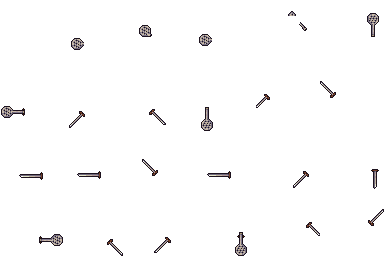
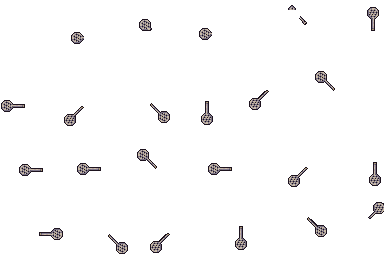
add new pc sprite/ update to racket sprite(ugh)/primitive vs computer play

diff --git a/src/index.js b/src/index.js
@@ -22,10 +22,12 @@ import * as serviceWorker from './serviceWorker';
 
   var game = new Phaser.Game(config);
 
-  var player, racket, cursor, ball, wall, scoreTextPlayer, scoreTextPc, rect, circle, court, divider
+  var player, racket, cursor, ball, wall, scoreTextPlayer, scoreTextPc, rect, circle, court, divider, pc, pcracket, pchit
+  var pcVelocity = 0
   var scorePlayer = 0
   var scorePc = 0
 
+  pchit = false
   let maxVel = 150
   var velocityX = 0
   var velocityY = 0
@@ -39,13 +41,14 @@ import * as serviceWorker from './serviceWorker';
   function preloadGame () {
     //function where images are loaded
     this.load.image('player','assets/player.png')
-    this.load.image('pc','assets/pc.png')
     this.load.image('ball','assets/ball.png')
     this.load.image('wall','assets/wall.png')
     // this.load.image('divider','assets/divider.png')
     this.load.image('court','assets/tempcourt.png')
+    this.load.spritesheet('pc','assets/pc.png', { frameWidth: 64, frameHeight: 64 })
     this.load.spritesheet('dude', 'assets/playersprite.png', { frameWidth: 64, frameHeight: 64 })
     this.load.spritesheet('racket', 'assets/racket.png', { frameWidth: 64, frameHeight: 64 })
+    this.load.spritesheet('pcracket', 'assets/racket.png', { frameWidth: 64, frameHeight: 64 })
   }
 
   function createGame () {
@@ -101,6 +104,30 @@ import * as serviceWorker from './serviceWorker';
       frameRate: 16
     })
 
+    this.anims.create({
+      key: 'pcleft',
+      frames: this.anims.generateFrameNumbers('pc', { start: 117, end: 125 }),
+      frameRate: 10
+    });
+
+    this.anims.create({
+      key: 'pcright',
+      frames: this.anims.generateFrameNumbers('pc', { start: 143, end: 151 }),
+      frameRate: 10,
+    });
+
+    this.anims.create({
+      key: 'pcspacebar',
+      frames: this.anims.generateFrameNumbers('pc', { start: 186, end: 182 }),
+      frameRate: 16
+    });
+
+    this.anims.create({
+      key: 'pcracket',
+      frames: this.anims.generateFrameNumbers('pcracket', { start: 20, end: 16}),
+      frameRate: 16
+    })
+
     // divider = this.physics.add.image(587, 320, 'divider')
     // divider.setImmovable(true)
 
@@ -114,8 +141,17 @@ import * as serviceWorker from './serviceWorker';
     ball.setScale(ballZ)
     ball.setBounce(0)
 
-    wall = this.physics.add.image(600, 20, 'wall')
-    wall.setImmovable(true)
+    // wall = this.physics.add.image(600, 20, 'wall')
+    // wall.setImmovable(true)
+    pc = this.physics.add.sprite(600, 80, 'pc')
+    pc.setSize(64, 35, 0, 15)
+    pc.setCollideWorldBounds(true)
+    pc.setImmovable(true)
+    pc.setVelocityX(pcVelocity)
+    pc.setFrame(27)
+    pcracket = this.physics.add.sprite(335, 485, 'pcracket')
+    pcracket.setSize(80, 74, 0, 0)
+
     player = this.physics.add.sprite(350, 500, 'dude');
     player.setSize(30, 35, 30, 15)
     player.setImmovable(true)
@@ -125,8 +161,9 @@ import * as serviceWorker from './serviceWorker';
     player.setBounce(.5)
 
     this.physics.add.collider(ball, player, hitPlayer, null, this)
-    this.physics.add.collider(ball, racket, hitBall, null, this)
-    this.physics.add.collider(ball, wall, hitWall, null, this)
+    this.physics.add.collider(ball, pc, hitPC, null, this)
+    this.physics.add.overlap(ball, racket, hitBall, null, this)
+    // this.physics.add.collider(ball, wall, hitWall, null, this)
     // this.physics.add.collider(divider, player, hitDivider, null, this)
     // this.physics.add.overlap(divider, ball, ballDivider, detectedTrue, this)
 
@@ -141,8 +178,35 @@ import * as serviceWorker from './serviceWorker';
     circle.x = player.body.x + 14.5
     circle.y = player.body.y + 45
 
-    racket.body.x = player.body.x - 15
-    racket.body.y = player.body.y - 15
+    pcracket.body.x = pc.body.x - 10
+    pcracket.body.y = pc.body.y + 5
+
+    racket.body.x = player.body.x - 16
+    racket.body.y = player.body.y - 9
+
+
+    if (pchit === true) {
+      pc.anims.play('pcspacebar', true)
+      setTimeout(function() {
+        pchit = false
+      }, 300)
+    }
+    else if (pc.body.x < ball.body.x - 10) {
+      pcVelocity < 201 ? pcVelocity += (ball.body.x - pc.body.x) / 25 :
+      pcVelocity = 200
+      pcracket.setFrame(19)
+      pc.anims.play('pcright', true)
+      pc.setVelocityX(pcVelocity)
+    } else if (pc.body.x > ball.body.x + 10) {
+      pcVelocity > -201 ? pcVelocity -= (pc.body.x - ball.body.x) / 25 :
+      pcVelocity = -200
+      pcracket.setFrame(16)
+      pc.anims.play('pcleft', true)
+      pc.setVelocityX(pcVelocity)
+    } else if (pc.body.x < ball.body.x || pc.body.x > ball.body.x) {
+      pcVelocity = 0
+      pc.setVelocityX(pcVelocity)
+    }
 
     if (distance > 0 && distance < 50) {
       ball.setScale(scale + (setHitZ / 60))
@@ -335,21 +399,30 @@ import * as serviceWorker from './serviceWorker';
     }
   }
 
+  function hitPC(ball, pc) {
+    pchit = true
+    pc.anims.stop(null, true);
+    scale = 1.25
+    ball.setVelocityY(Math.floor(Math.random() * 300) + 100)
+    ball.setVelocityX((Math.random() * 200) - 100)
+    setHitZ = (Math.random() * 6) + 1
+    distance = 1
+    pc.anims.play('pcspacebar', true)
+    pcracket.anims.play('pcracket', true)
+  }
+
   function hitPlayer (ball, player) {
     ball.setVelocityY(0)
     ball.setVelocityX(0);
   }
 
   function hitWall (ball, wall) {
-    console.log('yo?')
-    console.log(ball.body.velocity.y)
     ball.setVelocityY(200)
     ball.setVelocityX(Math.random() * 200 - 100)
     detected = true
   }
 
   function hitDivider (divider, player) {
-    console.log('firing')
     player.setVelocityX(0)
     player.setVelocityY(0)
   }
